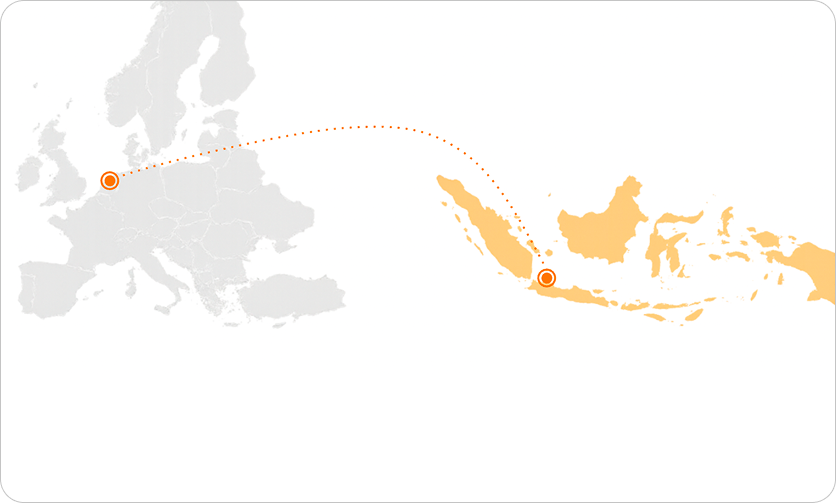
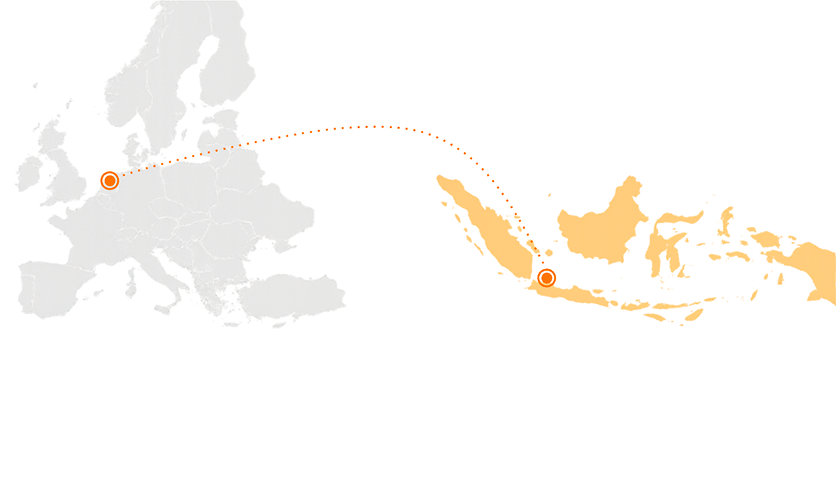
fix: update map background image and change CSS object-fit to cover for better layout consistency

Changed region(s): [[0.9952, 0.0298, 1.0, 0.9841], [0.0, 0.9841, 0.9952, 1.0]]

diff --git a/index.html b/index.html
@@ -1063,8 +1063,8 @@
         <div class="flex gap-[48px] justify-center w-full">
           <!-- Left: Map Area -->
           <div
-            class="w-[836px] h-[503px] border border-gray rounded-[24px] flex h-[503px] items-start relative overflow-hidden bg-white">
-            <img src="assets/map-bg.png" alt="Map" class="w-full h-full object-contain" />
+            class="w-[836px] h-[503px] border border-gray rounded-[24px] flex items-start relative overflow-hidden bg-white">
+            <img src="assets/map-bg.png" alt="Map" class="w-full h-full object-cover" />
 
             <!-- Netherlands HQ Callout -->
             <div